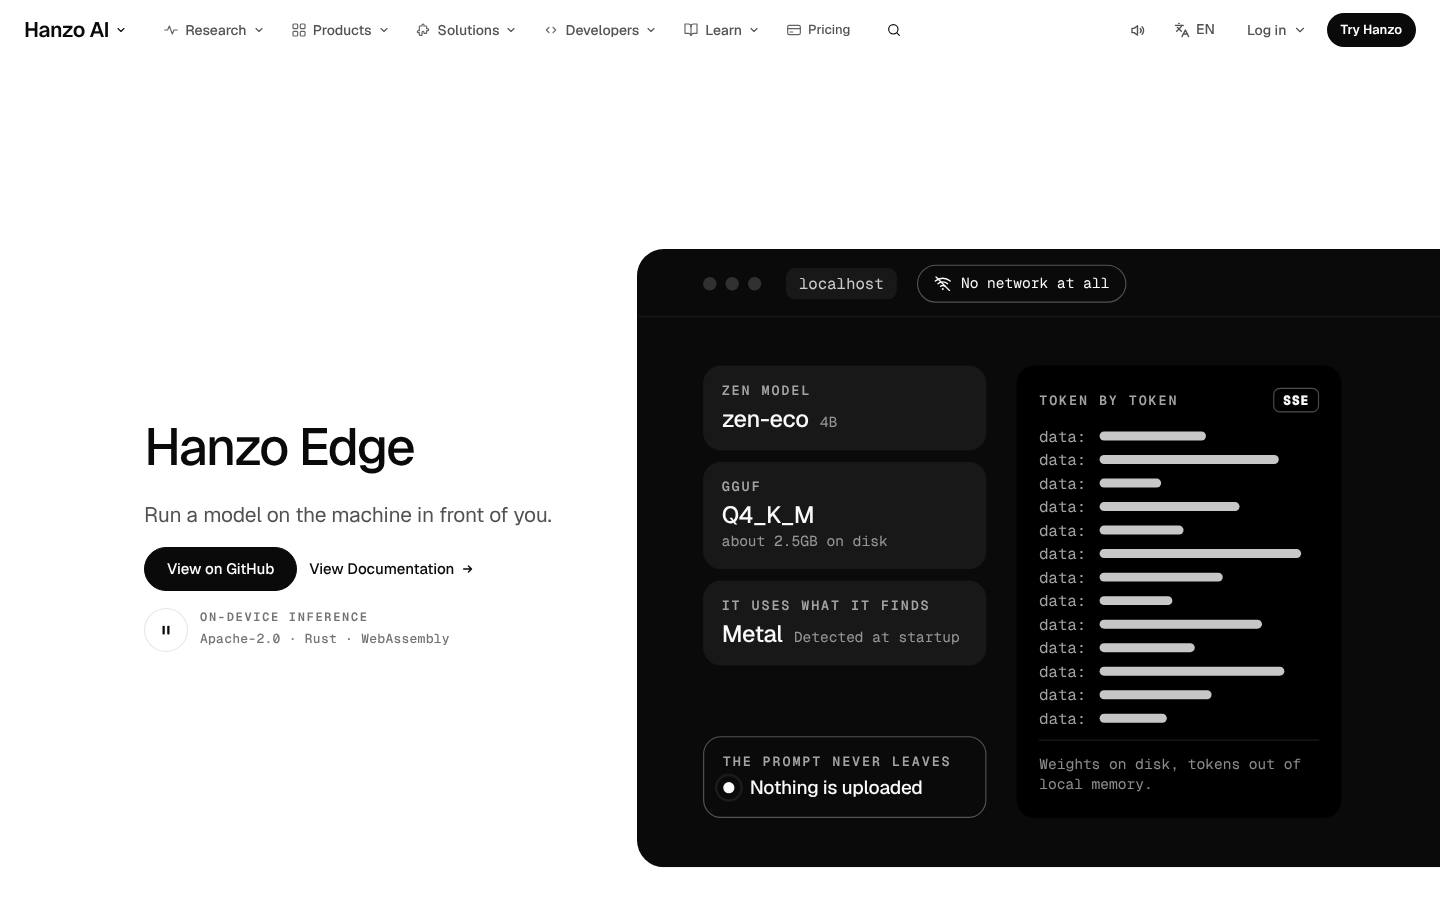
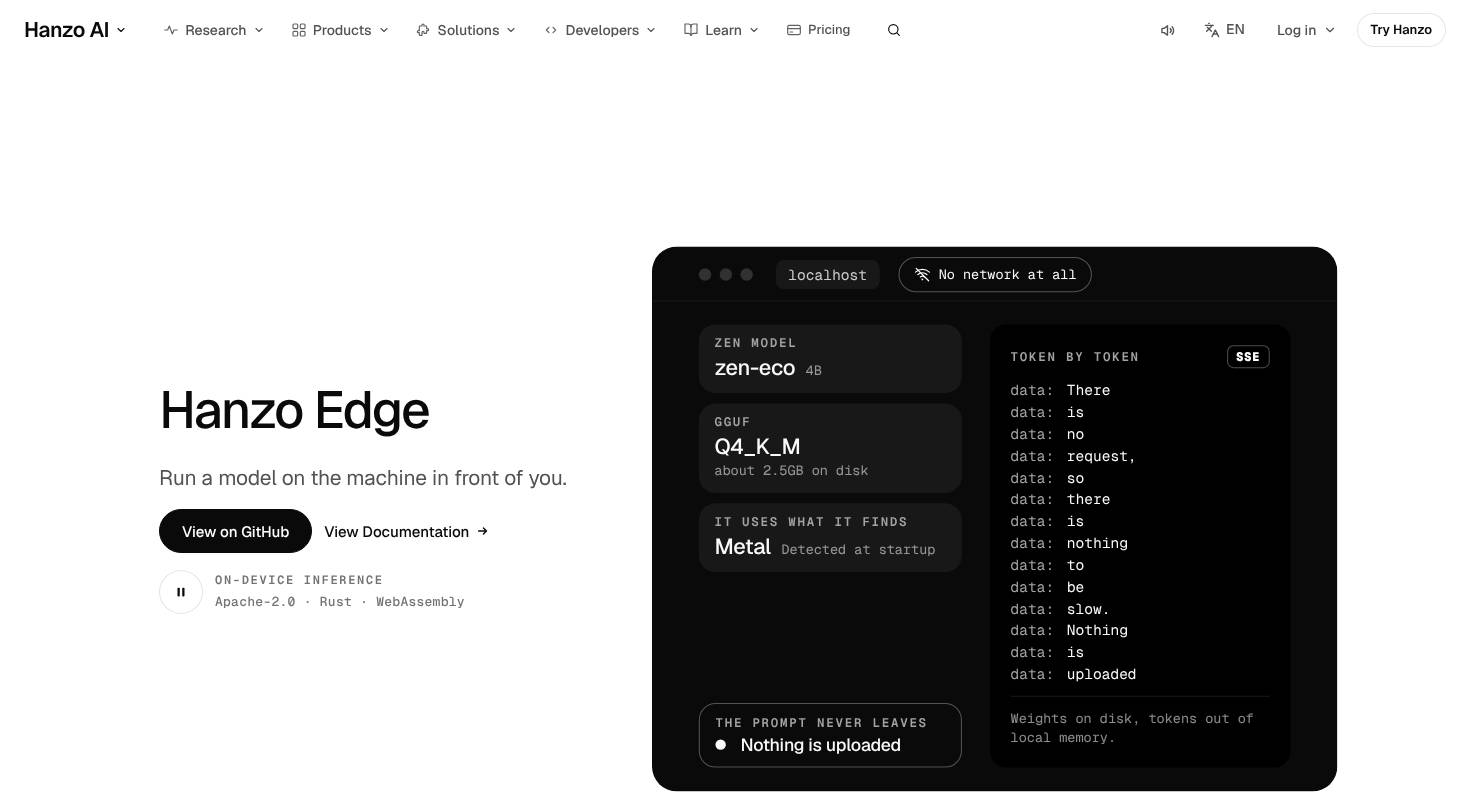
edge: Ready — real token stream, window fits, one machine kind at a time, dark room as a tabbed stage with its own object, phone card rail, hovers
Claude-Session: https://claude.ai/code/session_01P5YBdx19ukLv4B41yE4M3v

diff --git a/components/pages/cloud/Edge.jsx b/components/pages/cloud/Edge.jsx
@@ -20,12 +20,12 @@
 //   answer built from Hanzo's own lines.
 // Every word and link is Hanzo's; the field and the stream are drawn, not measured, and show no numbers.
 import { useEffect, useRef, useState } from 'react';
-import { motion, useInView } from 'motion/react';
+import { motion, useInView, useScroll, useTransform, useMotionTemplate, useReducedMotion } from 'motion/react';
+import { useWide } from '../../v2/KeynoteChapters';
 import { A } from '../../kit';
 import { useCalm } from '../../ui';
 import KeynoteStage, { useStagePause } from './SafeStage';
 import KeynoteOpen from '../../v2/KeynoteOpen';
-import KeynoteRoom from '../../v2/KeynoteRoom';
 import KeynoteClose from '../../v2/KeynoteClose';
 import KeynoteLines from '../../v2/KeynoteLines';
 import './Edge.css';
@@ -41,7 +41,8 @@ const PauseIcon = ({ on }) => on
   : <svg viewBox="0 0 16 16" width="14" height="14" aria-hidden="true"><rect x="4" y="3" width="2.6" height="10" rx="1" fill="currentColor" /><rect x="9.4" y="3" width="2.6" height="10" rx="1" fill="currentColor" /></svg>;
 
 /* ---------- the hero: a server on localhost, streaming token by token with the network off ---------- */
-const W = [38, 64, 22, 50, 30, 72, 44, 26, 58, 34, 66, 40, 24, 52, 46, 30];
+// the stream is Hanzo's own words, one token per server-sent event
+const TOKENS = 'There is no request, so there is nothing to be slow. Nothing is uploaded'.split(' ');
 function Local() {
   const ref = useRef(null);
   const seen = useInView(ref, { amount: 0.25 });
@@ -71,8 +72,8 @@ function Local() {
         <div className="eg-sse" aria-hidden="true">
           <p className="eg-sse-k"><span>Token by token</span><b>SSE</b></p>
           <div className="eg-sse-l" key={round}>
-            {W.map((w, i) => (
-              <p key={i} className="eg-ev" style={{ '--i': i }}><span>data:</span><i style={{ width: w + '%' }} /></p>
+            {TOKENS.map((w, i) => (
+              <p key={i} className="eg-ev" style={{ '--i': i }}><span>data:</span><b>{w}</b></p>
             ))}
           </div>
           <p className="eg-sse-f">Weights on disk, tokens out of local memory.</p>
@@ -167,16 +168,21 @@ function draw(s, cv, t, mode, calm) {
       r.p.lit = Math.max(r.p.lit, 1 - a);
     }
   }
+  const fore = calm ? -1 : s.kind ?? 0; // the kind in front while "Where it runs" shows
+  const small = w < 600;
   for (const p of pts) {
-    const tx = mode === 0 ? p.gx : p.hx, ty = mode === 0 ? p.gy : p.hy;
+    const big = mode === 0 && p.k === fore;
+    const cx = w * (0.2 + p.k * 0.3), cy = h * (small ? 0.34 : 0.5);
+    const tx = mode === 0 ? (big ? cx + (p.gx - cx) * 1.3 : p.gx) : p.hx, ty = mode === 0 ? (big ? cy + (p.gy - cy) * 1.3 : p.gy) : p.hy;
     const k = calm ? 1 : 0.075;
     p.x += (tx - p.x) * k; p.y += (ty - p.y) * k;
     if (mode === 1 && calm) p.lit = rnd(p.hx) > 0.8 ? 1 : 0;
     if (mode !== 2 && mode !== 1) p.lit = 0;
     if (mode === 1 && !calm) p.lit *= 0.985;
     const lit = p.lit;
-    c.fillStyle = `rgba(10, 10, 10, ${0.24 + lit * 0.76})`;
-    c.beginPath(); c.arc(p.x, p.y, mode === 0 ? 2.6 : 2.2 + lit * 1.6, 0, Math.PI * 2); c.fill();
+    const back = mode === 0 && fore >= 0 && !big;
+    c.fillStyle = `rgba(10, 10, 10, ${big ? 0.9 : back ? (small ? 0.1 : 0.18) : 0.24 + lit * 0.76})`;
+    c.beginPath(); c.arc(p.x, p.y, mode === 0 ? (big ? 3.4 : 2.2) : 2.2 + lit * 1.6, 0, Math.PI * 2); c.fill();
   }
 }
 
@@ -193,6 +199,16 @@ function Field() {
   const s = useField(canvas, wrap);
   const mode = useRef(0);
   mode.current = at;
+  // "Where it runs": one kind at a time comes forward (its machines gather wider and darken, its label inks)
+  const [kind, setKind] = useState(0);
+  s.current.kind = kind;
+  useEffect(() => {
+    if (at !== 0) return;
+    setKind(0);
+    if (!live) return;
+    const t = setInterval(() => setKind((k) => (k + 1) % 3), 2200);
+    return () => clearInterval(t);
+  }, [at, live]);
   // the next fact every 6.8 s while seen, not paused and not chosen by hand
   useEffect(() => {
     if (!live || mine) return;
@@ -221,7 +237,7 @@ function Field() {
         <p className="eg-said" aria-live="polite"><span key={at}>{SAID[at]}</span></p>
       </div>
       <div className="eg-band" data-mode={at} aria-hidden="true">
-        {KINDS.map(([k, d], i) => <p key={k} className="eg-kind" style={{ left: 20 + i * 30 + '%' }}><b>{k}</b><span>{d}</span></p>)}
+        {KINDS.map(([k, d], i) => <p key={k} className={'eg-kind' + (kind === i ? ' on' : '')} style={{ left: 20 + i * 30 + '%' }}><b>{k}</b><span>{d}</span></p>)}
         <p className="eg-repo"><b>Hugging Face repo</b></p>
       </div>
       <div className="eg-cv" ref={wrap} aria-hidden="true">
@@ -256,7 +272,7 @@ function Art({ i }) {
   if (i === 1) return <div className="eg-art a1">{['Q4_K', 'Q5_K', 'Q8_0'].map((q, k) => <p key={q} style={{ '--w': 0.5 + k * 0.25 }}><b>{q}</b><i /></p>)}<em>Q4_K_M · about 2.5GB</em></div>;
   if (i === 2) return <div className="eg-art a2">{[['Metal', 'Apple Silicon'], ['CUDA', 'NVIDIA'], ['AVX2', 'AVX-512']].map(([a, b], k) => <p key={a} className={k === 0 ? 'on' : ''}><b>{a}</b><span>{b}</span></p>)}</div>;
   if (i === 3) return <div className="eg-art a3"><p><b className="kn-fig">600M</b><span>zen3-nano</span></p><p><b className="kn-fig">4B</b><span>zen-eco</span></p></div>;
-  if (i === 4) return <div className="eg-art a4">{[54, 30, 72, 40, 62].map((w, k) => <p key={k} style={{ '--d': k * 0.35 + 's' }}><span>data:</span><i style={{ width: w + '%' }} /></p>)}</div>;
+  if (i === 4) return <div className="eg-art a4">{['so a UI', 'starts drawing', 'before', 'generation', 'finishes'].map((w, k) => <p key={k} style={{ '--d': k * 0.35 + 's' }}><span>data:</span><b>{w}</b></p>)}</div>;
   return <div className="eg-art a5"><div><p>prompt</p><p>output</p></div><span><Off /></span></div>;
 }
 
@@ -336,25 +352,81 @@ const WHEN = [
   ['Small hardware', 'ARM64 Linux is a production target. Cortex-A class boards are experimental, and the 600M model is the one that fits them.', ['A 600M model on a single-board computer', 'An ARM server doing batch work on its own', 'Kiosks and appliances with no account to sign in to']],
 ];
 
-function When() {
+/* The dark room opens out of a rounded window as it scrolls in (as the kit's KeynoteRoom does), but hydration-safe:
+   the server and the first render agree, and reduced motion drops the clip only after mount. */
+function Room({ children, className = '' }) {
+  const ref = useRef(null);
+  const reduce = useReducedMotion();
+  const wide = useWide();
+  const [ready, setReady] = useState(false);
+  useEffect(() => setReady(true), []);
+  const { scrollYProgress: p } = useScroll({ target: ref, offset: ['start end', 'start 15%'] });
+  const v = useTransform(p, [0, 1], [wide ? 6 : 2, 0], { clamp: true });
+  const h = useTransform(p, [0, 1], [wide ? 7 : 3, 0], { clamp: true });
+  const r = useTransform(p, [0, 1], [24, 0], { clamp: true });
+  const clip = useMotionTemplate`inset(${v}% ${h}% ${v}% ${h}% round ${r}px)`;
   return (
-    <KeynoteRoom className="kn-sec eg-when">
-      <div className="kn-wrap">
+    <section ref={ref} className={'knr ' + className} data-room="dark" style={{ position: 'relative', color: '#fafafa', isolation: 'isolate' }}>
+      <motion.div aria-hidden="true" style={{ position: 'absolute', inset: 0, background: '#171717', zIndex: -1, clipPath: ready && reduce ? 'none' : clip }} />
+      {children}
+    </section>
+  );
+}
+
+/* the dark room as one stage: four cases on the left, the chosen one on the right with its own object, a localhost
+   window with the network off streaming the case's three uses. It moves on by itself every 6 s while seen, until you
+   choose. Every case is in the HTML (JS off shows all four, stacked). */
+function When() {
+  const ref = useRef(null);
+  const seen = useInView(ref, { amount: 0.35 });
+  const calm = useCalm();
+  const [at, setAt] = useState(0);
+  const [mine, setMine] = useState(false);
+  const tabs = useRef([]);
+  useEffect(() => {
+    if (!seen || calm || mine) return;
+    const t = setTimeout(() => setAt((v) => (v + 1) % WHEN.length), 6000);
+    return () => clearTimeout(t);
+  }, [at, seen, calm, mine]);
+  const pick = (i) => { setAt(i); setMine(true); };
+  const key = (e, i) => {
+    const k = { ArrowDown: 1, ArrowRight: 1, ArrowUp: -1, ArrowLeft: -1 }[e.key];
+    if (!k) return;
+    e.preventDefault();
+    const j = (i + k + WHEN.length) % WHEN.length;
+    pick(j); tabs.current[j]?.focus();
+  };
+  return (
+    <Room className="kn-sec eg-when">
+      <div className="kn-wrap" ref={ref}>
         <div className="kn-grid eg-when-h">
           <KeynoteLines className="kn-headline eg-when-t" lines="When to reach for it" />
           <p className="kn-lede eg-when-l">Use Edge when the data cannot leave, the network cannot be relied on, or a per-call bill is the wrong shape. Use Hanzo Engine when you need full precision or many users at once.</p>
         </div>
-        <ol className="eg-cases">
-          {WHEN.map(([t, d, pts], i) => (
-            <li key={t} className="eg-case kn-grid">
-              <span className="eg-case-n kn-fig" aria-hidden="true">{pad(i + 1)}</span>
-              <div className="eg-case-t"><h3 className="eg-case-h">{t}</h3><p>{d}</p></div>
-              <ul>{pts.map((p) => <li key={p}>{p}</li>)}</ul>
-            </li>
-          ))}
-        </ol>
+        <div className="kn-grid eg-cases" data-mine={mine ? '' : undefined}>
+          <div className="eg-tabs" role="tablist" aria-label="When to reach for it" aria-orientation="vertical">
+            {WHEN.map(([t], i) => (
+              <button key={t} ref={(el) => { tabs.current[i] = el; }} type="button" role="tab" id={'eg-wt' + i} aria-controls={'eg-wp' + i} aria-selected={at === i} tabIndex={at === i ? 0 : -1} data-sound="tick" onClick={() => pick(i)} onKeyDown={(e) => key(e, i)} className="eg-tab">
+                <span className="eg-case-n kn-fig" aria-hidden="true">{pad(i + 1)}</span>
+                <span className="eg-tab-t">{t}</span>
+                <span className="eg-tab-bar" aria-hidden="true"><i key={at === i ? 'on' + at : 'off'} /></span>
+              </button>
+            ))}
+          </div>
+          <div className="eg-panels">
+            {WHEN.map(([t, d, pts], i) => (
+              <div key={t} className="eg-case" role="tabpanel" id={'eg-wp' + i} aria-labelledby={'eg-wt' + i} data-on={at === i ? '' : undefined} aria-hidden={at === i ? undefined : true}>
+                <div className="eg-case-t"><h3 className="eg-case-h">{t}</h3><p>{d}</p></div>
+                <div className="eg-mini">
+                  <div className="eg-mini-bar" aria-hidden="true"><span className="eg-dots"><i /><i /><i /></span><span className="eg-host">localhost</span><span className="eg-net"><Off /></span></div>
+                  <ul>{pts.map((p, k) => <li key={p} style={{ '--k': k }}><span aria-hidden="true">data:</span>{p}</li>)}</ul>
+                </div>
+              </div>
+            ))}
+          </div>
+        </div>
       </div>
-    </KeynoteRoom>
+    </Room>
   );
 }
 
@@ -389,7 +461,7 @@ export default function Edge() {
         lede="Run a model on the machine in front of you."
         acts={[['View on GitHub', 'https://github.com/hanzoai/edge'], ['View Documentation', 'https://docs.hanzo.ai']]}
         meta={<span>Apache-2.0 · Rust · WebAssembly</span>}
-        from={1.12}
+        from={1.04}
         cta="edge.hero"
       >
         <Local />

diff --git a/components/pages/cloud/Edge.css b/components/pages/cloud/Edge.css
@@ -33,7 +33,7 @@
 .js .eg-ev { animation: eg-ev-in .3s var(--e-in) both; animation-delay: calc(.3s + var(--i) * .22s); }
 @keyframes eg-ev-in { from { opacity: 0; transform: translate3d(-8px, 0, 0); } to { opacity: 1; transform: none; } }
 .eg-ev span { color: #a3a3a3; }
-.eg-ev i { height: 8px; border-radius: 999px; background: rgba(255, 255, 255, .78); }
+.eg-ev b { font-weight: 400; color: #fafafa; }
 .eg-sse-f { margin: 0; padding-top: 12px; border-top: 1px solid rgba(255, 255, 255, .1); font: 400 13px/1.4 var(--mono); color: rgba(255, 255, 255, .55); }
 
 /* ---------- the signature: the field (its labels live in a band above the canvas, never over it) ---------- */
@@ -62,7 +62,7 @@
 .eg-fact[aria-pressed='true'] .eg-fact-bar i { animation: eg-bar 6.8s linear both; }
 .eg-field[data-mine] .eg-fact[aria-pressed='true'] .eg-fact-bar i { animation: none; transform: none; }
 @keyframes eg-bar { to { transform: scaleX(1); } }
-.eg-fact-t { font-size: 17px; font-weight: 497; line-height: 1.3; letter-spacing: -.01em; color: inherit; }
+.eg-fact-t { display: inline-block; transition: transform .3s var(--e-in); font-size: 17px; font-weight: 497; line-height: 1.3; letter-spacing: -.01em; color: inherit; }
 .eg-fact-d { font-size: 16px; line-height: 1.5; max-width: 40ch; color: inherit; }
 .eg-fact-n { font: 400 13px/1 var(--mono); letter-spacing: .08em; color: #737373; }
 .eg-fact[aria-pressed='true'] { color: #0a0a0a; }
@@ -115,7 +115,7 @@ html:not(.js) .eg-open .kno-detail p { margin: 0; font-size: 16px; line-height: 
 .eg-art.a3 span { font-size: 14px; color: #525252; }
 .eg-art.a4 { background: #0a0a0a; gap: 10px; }
 .eg-art.a4 p { margin: 0; display: flex; align-items: center; gap: 10px; font-size: 13px; color: #a3a3a3; animation: eg-ev 2.4s var(--e-move) 2 both; animation-delay: var(--d); }
-.eg-art.a4 i { height: 8px; border-radius: 999px; background: rgba(255, 255, 255, .78); }
+.eg-art.a4 b { font-weight: 400; color: #fafafa; }
 @keyframes eg-ev { 0% { opacity: .15; } 20%, 80% { opacity: 1; } 100% { opacity: 1; } }
 .eg-art.a5 { align-items: center; }
 .eg-art.a5 > div { position: relative; display: flex; gap: 10px; padding: 20px; border-radius: 16px; border: 1.5px dashed rgba(10, 10, 10, .3); }
@@ -159,15 +159,37 @@ html:not(.js) .eg-open .kno-detail p { margin: 0; font-size: 16px; line-height: 
 .eg-when-h { align-items: end; row-gap: 17px; margin-bottom: clamp(44px, 6vw, 72px); }
 .eg-when-t { grid-column: 1 / span 6; color: #fafafa; }
 .eg-when-l { grid-column: 8 / span 5; color: #a3a3a3; }
-.eg-cases { list-style: none; margin: 0; padding: 0; border-top: 1px solid rgba(255, 255, 255, .16); }
-.eg-case { padding: clamp(27px, 3.4vw, 44px) 0; border-bottom: 1px solid rgba(255, 255, 255, .1); align-items: start; row-gap: 17px; }
-.eg-case-n { grid-column: 1 / span 1; font: 400 13px/1.6 var(--mono); color: #a3a3a3; }
-.eg-case-t { grid-column: 2 / span 5; display: flex; flex-direction: column; gap: 10px; }
-.eg-case-h { margin: 0; font-size: 17px; font-weight: 497; line-height: 1.3; letter-spacing: -.01em; color: #fafafa; }
-.eg-case-t p { margin: 0; font-size: 16px; line-height: 1.55; color: #a3a3a3; max-width: 44ch; }
-.eg-case ul { grid-column: 8 / -1; list-style: none; margin: 0; padding: 0; display: grid; gap: 10px; }
-.eg-case ul li { position: relative; padding-left: 22px; font-size: 16px; line-height: 1.45; color: rgba(255, 255, 255, .78); }
-.eg-case ul li::before { content: ''; position: absolute; left: 0; top: .5em; width: 7px; height: 7px; border-radius: 50%; border: 1.5px solid #fafafa; }
+.eg-cases { align-items: start; row-gap: 27px; border-top: 1px solid rgba(255, 255, 255, .16); padding-top: clamp(27px, 3vw, 44px); }
+.eg-tabs { grid-column: 1 / span 5; display: flex; flex-direction: column; }
+.eg-tab { position: relative; display: grid; grid-template-columns: 40px minmax(0, 1fr); align-items: center; min-height: 64px; padding: 0 0 2px; border: 0; background: none; color: #737373; text-align: left; font: 497 17px/1.3 var(--sans); letter-spacing: -.01em; cursor: pointer; transition: color .3s var(--e-out), transform .15s var(--e-out); }
+.eg-tab .eg-case-n { font: 400 13px/1 var(--mono); color: inherit; }
+.eg-tab[aria-selected='true'] { color: #fafafa; }
+.eg-tab:active { transform: scale(.97); transition-duration: 90ms; }
+.eg-tab:focus-visible { outline: 2px solid #fafafa; outline-offset: 2px; border-radius: 8px; }
+.eg-tab-bar { position: absolute; left: 40px; right: 0; bottom: 0; height: 1px; background: rgba(255, 255, 255, .12); overflow: hidden; }
+.eg-tab-bar i { position: absolute; inset: 0; background: #fafafa; transform: scaleX(0); transform-origin: 0 50%; }
+.eg-tab[aria-selected='true'] .eg-tab-bar i { animation: eg-bar 6s linear both; }
+.eg-cases[data-mine] .eg-tab[aria-selected='true'] .eg-tab-bar i { animation: none; transform: none; }
+@media (hover: hover) { .eg-tab:not([aria-selected='true']):hover { color: #d4d4d4; } }
+.eg-panels { grid-column: 7 / -1; display: grid; }
+.eg-case { grid-area: 1 / 1; display: flex; flex-direction: column; gap: 27px; }
+.js .eg-case:not([data-on]) { visibility: hidden; opacity: 0; }
+.js .eg-case[data-on] .eg-case-t { animation: eg-mask .45s var(--e-in) both; }
+html:not(.js) .eg-panels { gap: 44px; }
+html:not(.js) .eg-case { grid-area: auto; }
+.eg-case-t { display: flex; flex-direction: column; gap: 10px; }
+.eg-case-h { margin: 0; font-size: 26px; font-weight: 497; line-height: 1.2; letter-spacing: -.02em; color: #fafafa; }
+.eg-case-t p { margin: 0; font-size: 16px; line-height: 1.55; color: #a3a3a3; max-width: 46ch; }
+/* the case's object: the localhost window, network off, streaming the case's three uses */
+.eg-mini { border-radius: 16px; background: #000; box-shadow: inset 0 0 0 1px rgba(255, 255, 255, .1); overflow: hidden; }
+.eg-mini-bar { display: flex; align-items: center; gap: 10px; height: 48px; padding: 0 14px; border-bottom: 1px solid rgba(255, 255, 255, .08); }
+.eg-mini-bar .eg-dots i { width: 10px; height: 10px; }
+.eg-mini-bar .eg-host { font-size: 13px; padding: 6px 10px; }
+.eg-mini-bar .eg-net { margin-left: auto; padding: 6px 10px; }
+.eg-mini ul { list-style: none; margin: 0; padding: 20px; display: grid; gap: 12px; }
+.eg-mini li { display: grid; grid-template-columns: 52px minmax(0, 1fr); gap: 8px; font-size: 16px; line-height: 1.45; color: rgba(255, 255, 255, .78); }
+.eg-mini li span { font: 400 13px/1.7 var(--mono); color: #737373; }
+.js .eg-case[data-on] .eg-mini li { animation: eg-ev-in .4s var(--e-in) both; animation-delay: calc(.25s + var(--k) * .3s); }
 
 /* related, inside the light close */
 .eg-rel { margin-top: 10px; }
@@ -181,6 +203,36 @@ html:not(.js) .eg-open .kno-detail p { margin: 0; font-size: 16px; line-height: 
 .eg-rel-a:active { transform: scale(.99); transition-duration: 90ms; }
 .eg-rel-a:focus-visible { outline: 2px solid var(--focus, #0a0a0a); outline-offset: 2px; border-radius: 8px; }
 @media (hover: hover) { .eg-rel-a:hover { background: #f5f5f5; } .eg-rel-a:hover svg { transform: translateX(4px); } }
+
+/* the hero window fits the page (no bleed past the right edge at 1470) */
+@media (min-width: 900px) {
+  .eg .kns.side .kns-obj-wrap { margin-right: 0; }
+  .eg-loc { aspect-ratio: auto; }
+  .eg-sse-l { min-height: 0; }
+  .eg-loc .eg-loc-bar { height: 52px; }
+  .eg-loc .eg-loc-b { padding-top: 22px; padding-bottom: 22px; }
+  .eg-loc .eg-spec div { padding: 12px 15px; gap: 6px; }
+  .eg-loc-bar { padding-right: clamp(24px, 3vw, 44px); }
+  .eg-loc-b { padding-right: clamp(24px, 3vw, 44px); padding-left: clamp(24px, 3vw, 44px); }
+  .eg-loc-bar { padding-left: clamp(24px, 3vw, 44px); }
+}
+/* the field: the kind in front inks its label */
+.eg-kind b, .eg-kind span { transition: color .3s var(--e-out); }
+.js .eg-band[data-mode='0'] .eg-kind:not(.on) b { color: #a3a3a3; }
+.js .eg-band[data-mode='0'] .eg-kind:not(.on) span { color: #a3a3a3; }
+/* hovers that answer */
+@media (hover: hover) {
+  .eg .kns-acts .x-arrow { text-decoration: underline transparent; text-underline-offset: 4px; transition: text-decoration-color .2s var(--e-out); }
+  .eg .kns-acts .x-arrow:hover { text-decoration-color: currentColor; }
+  .eg .kns-acts .x-arrow:hover svg { transform: translateX(3px); }
+  .eg-open .kno-card { transition: border-color .15s var(--e-out), scale .15s var(--e-out), translate .3s var(--e-in); }
+  .eg-open .kno-card:hover { translate: 0 -4px; }
+  .eg-open .kno-x:hover { background: #f5f5f5; }
+  .eg-fact[aria-pressed='true']:hover .eg-fact-bar { height: 3px; }
+  .eg-fact:hover .eg-fact-t { transform: translateX(4px); }
+}
+.eg .kns-acts .x-arrow svg { transition: transform .2s var(--e-out); }
+.eg .x-copy:active { transform: scale(.97); }
 
 @media (max-width: 899px) {
   .eg-loc { aspect-ratio: auto; }
@@ -219,10 +271,16 @@ html:not(.js) .eg-open .kno-detail p { margin: 0; font-size: 16px; line-height: 
   .eg-m b { font-size: 32px; }
   .eg-m.sm b { font-size: 21px; }
   .eg-when-t, .eg-when-l { grid-column: 1 / -1; }
-  /* the number sits beside its heading, never above it */
-  .eg-case { grid-template-columns: 32px minmax(0, 1fr); column-gap: 10px; }
-  .eg-case-n { grid-column: 1; grid-row: 1; }
-  .eg-case-t, .eg-case ul { grid-column: 2; }
+  .eg-tabs, .eg-panels { grid-column: 1 / -1; }
+  .eg-tab { min-height: 52px; font-size: 16px; }
+  .eg-case-h { font-size: 21px; }
+  .eg-mini ul { padding: 16px; }
+  .eg-mini li { grid-template-columns: 1fr; gap: 0; font-size: 15px; }
+  .eg-ev:nth-child(n + 11) { display: none; }
+  /* the six runtime cards: one rail you swipe, not six screens */
+  .eg-open .kno-grid { display: flex; gap: 12px; margin: 0 -16px; padding: 0 16px 6px; overflow-x: auto; scroll-snap-type: x mandatory; scrollbar-width: none; overscroll-behavior-x: contain; }
+  .eg-open .kno-grid::-webkit-scrollbar { display: none; }
+  .eg-open .kno-grid > li { flex: 0 0 82%; scroll-snap-align: start; }
   .eg-rel-a { grid-template-columns: minmax(0, 1fr) 20px; grid-template-rows: auto auto; row-gap: 2px; padding: 10px 6px; }
   .eg-rel-a span { grid-column: 1; grid-row: 2; }
   .eg-rel-a svg { grid-column: 2; grid-row: 1 / span 2; }
@@ -230,6 +288,7 @@ html:not(.js) .eg-open .kno-detail p { margin: 0; font-size: 16px; line-height: 
 @media (prefers-reduced-motion: reduce) {
   .eg-pulse::after, .eg-art.a0 i, .eg-art.a4 p, .js .eg-ev, .js .eg-m b, .js .eg-ans-l span, .js .eg-said span { animation: none !important; }
   .eg-pulse::after { opacity: 0; }
-  .eg-fact-bar i { animation: none !important; }
+  .eg-fact-bar i, .eg-tab-bar i { animation: none !important; }
+  .js .eg-case[data-on] .eg-case-t, .js .eg-case[data-on] .eg-mini li { animation: none !important; }
   .eg-kind, .eg-repo { transition: none !important; }
 }

diff --git a/docs/review/edge.md b/docs/review/edge.md
@@ -1,4 +1,5 @@
 # /edge — James-eye review
+Ready: 2026-11-08 the localhost window streams Hanzo's own words token by token (no grey bars, also in the SSE card) and now fits inside 1470×801; the field brings one machine kind forward at a time (wider, darker, its label inked; the others recede, so phone reads one); the dark room is one switching stage (four cases as auto-advancing tabs, each with its own object: a network-off localhost window streaming that case's uses); the six runtime cards are a swipe rail on phone (phone ~9 screens of content, was 16); hovers on View Documentation, cards (lift), facts, sheet Close; Copy presses; local hydration-safe room (the kit's mismatched under reduced motion). taste OK, parity 64/64 + 7/7, unique OK, check.mjs 0 errors / 0 overlaps / no h-scroll at 1470 and 375, CLS ≤0.001, reduced motion 0 errors. Phone header ask stays the shared header's (the shared phone ask bar carries "View on GitHub").
 7 Nov, critic pass on `claude/modest-rosalind-d8d1e2` (dev server :4182). Walked moving at 1470x801 and 375x812 (phone: isMobile, hasTouch) with Playwright: frames at 0, 1 and 3 s with no input, wheel scrolls one screen at a time with a 1.5 s dwell, hover and press on every control in `main` on desktop, tap-size audit on phone, plus a 14 s dwell on the machine field and a click into a runtime card. I measured CLS, horizontal overflow, fixed elements and console output.
 
 Verdict: 7/10
